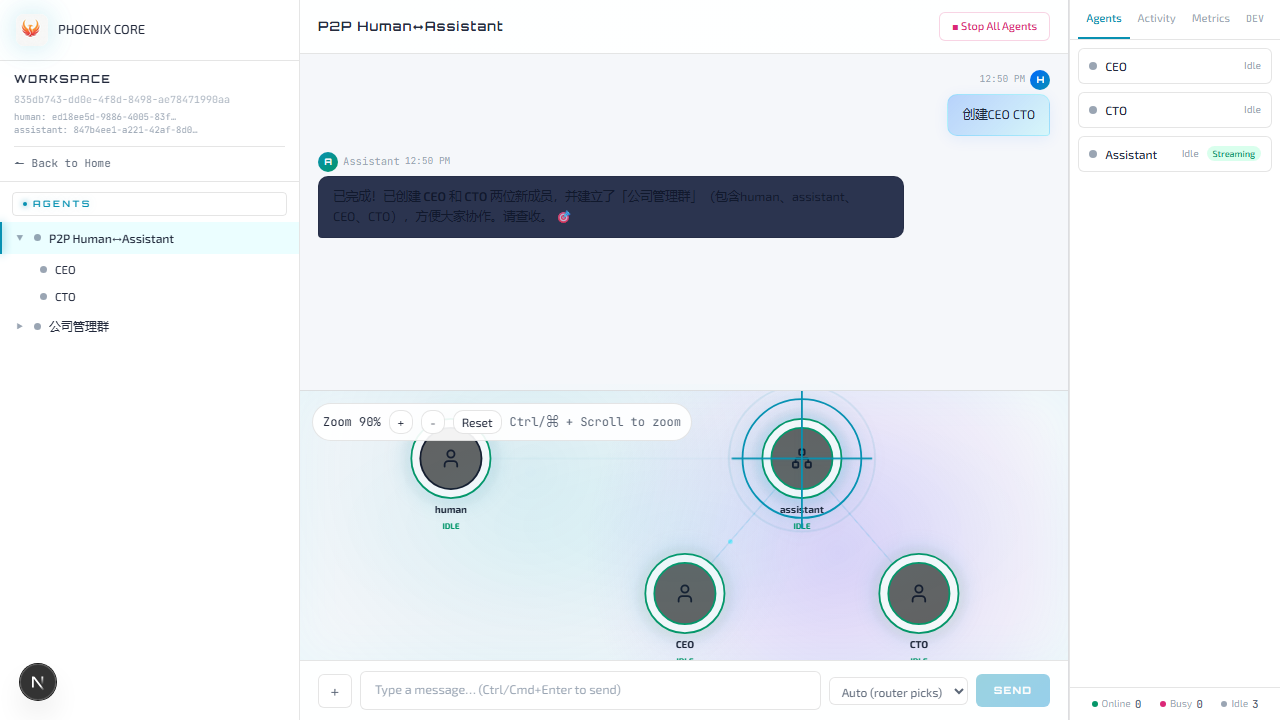
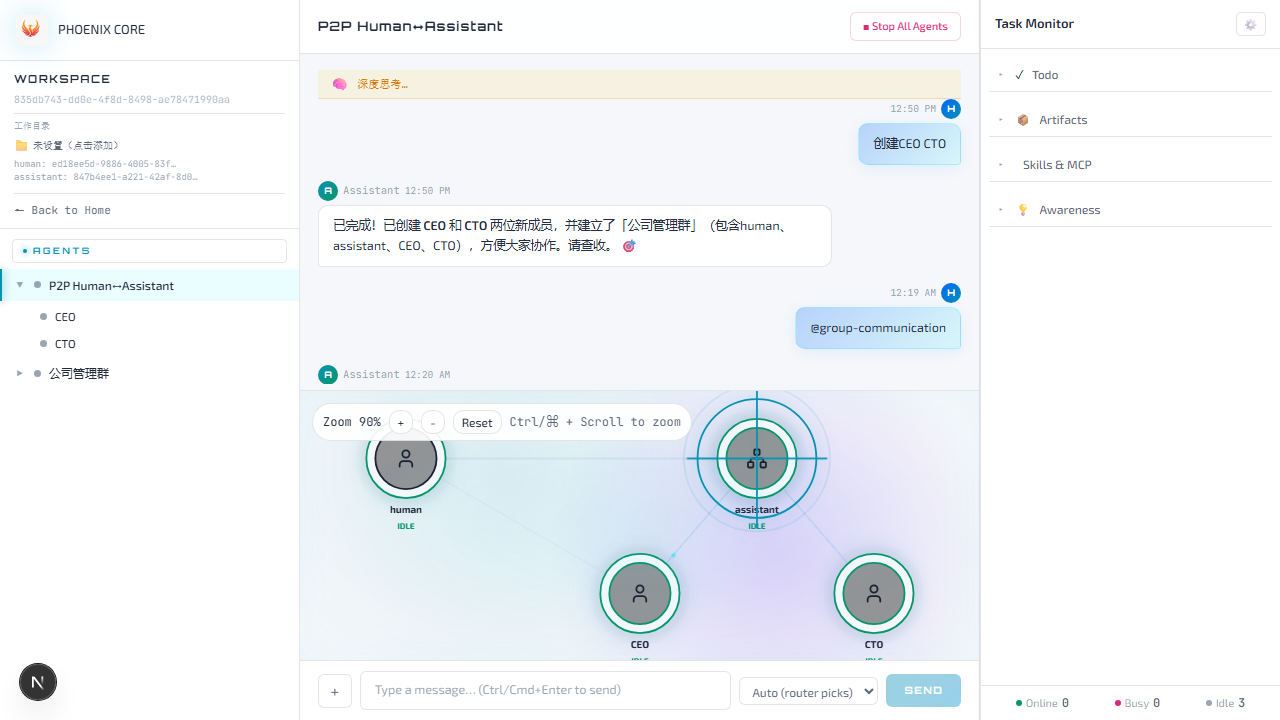
chore: update e2e test artifacts after template onboarding verification

diff --git a/backend/next-env.d.ts b/backend/next-env.d.ts
@@ -1,6 +1,6 @@
 /// <reference types="next" />
 /// <reference types="next/image-types/global" />
-import "./.next/dev/types/routes.d.ts";
+import "./.next/types/routes.d.ts";
 
 // NOTE: This file should not be edited
 // see https://nextjs.org/docs/app/api-reference/config/typescript for more information.

diff --git a/e2e/report/index.html b/e2e/report/index.html
@@ -87,4 +87,4 @@ Error generating stack: `+l.message+`
     <div id='root'></div>
   </body>
 </html>
[2 lines of base64/hex data omitted]